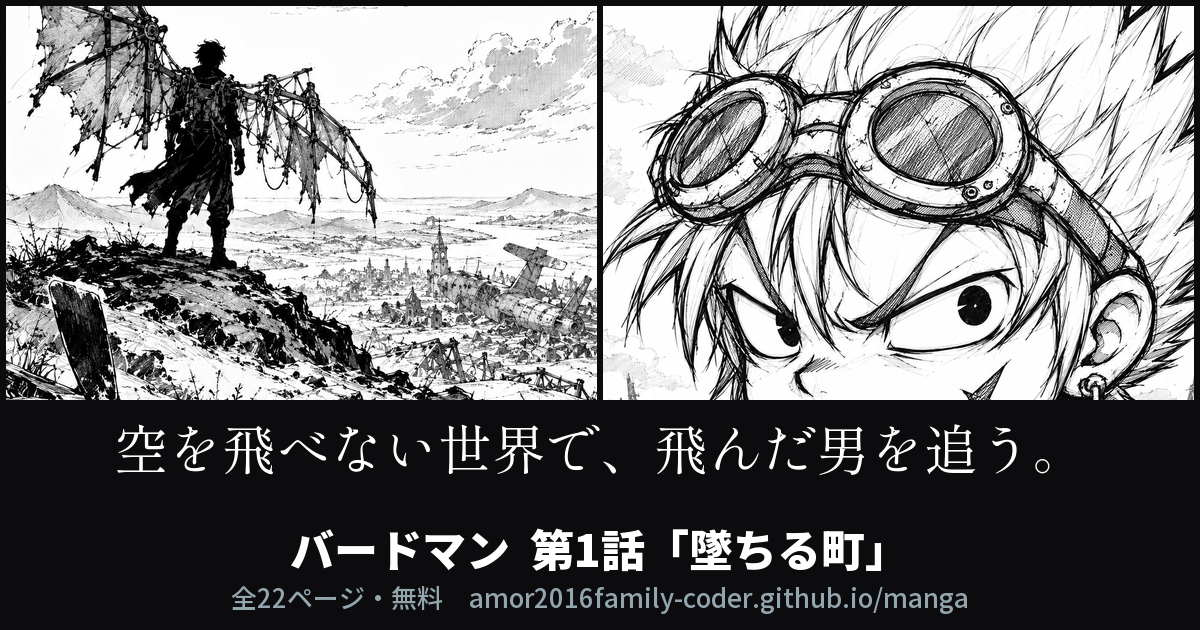
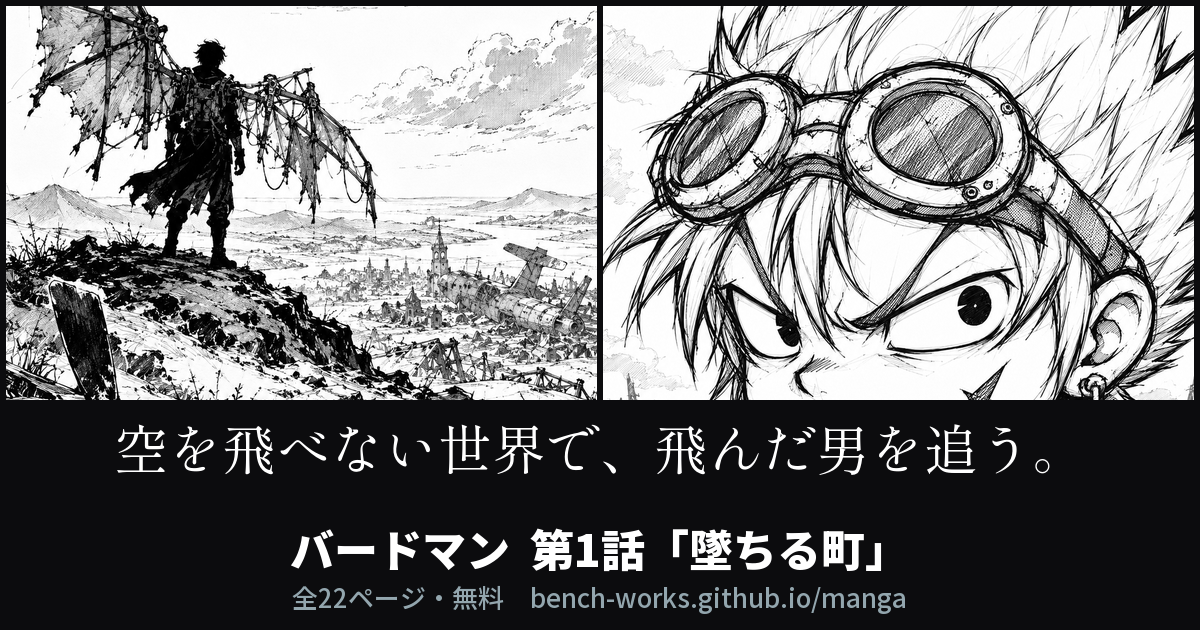
公開名とURLから会社名を外す
サイト名は「漫画棚」、公開先は bench-works.github.io/manga。
会社名が入ったURLを作品と並べて出せないため。

Changed region(s): [[0.185, 0.9349, 0.8017, 0.9651]]

diff --git a/docs/index.html b/docs/index.html
@@ -2,23 +2,23 @@
 <html lang="ja">
 <meta charset="utf-8">
 <meta name="viewport" content="width=device-width,initial-scale=1,viewport-fit=cover">
-<title>アモル漫画</title>
+<title>漫画棚</title>
 <meta name="description" content="白黒のペン画で描く、読み切りと連載。">
 <meta property="og:type" content="website">
-<meta property="og:title" content="アモル漫画">
+<meta property="og:title" content="漫画棚">
 <meta property="og:description" content="白黒のペン画で描く、読み切りと連載。">
-<meta property="og:image" content="https://amor2016family-coder.github.io/manga/img/birdman/card.png">
-<meta property="og:url" content="https://amor2016family-coder.github.io/manga/">
+<meta property="og:image" content="https://bench-works.github.io/manga/img/birdman/card.png">
+<meta property="og:url" content="https://bench-works.github.io/manga/">
 <meta name="twitter:card" content="summary_large_image">
 <link rel="icon" href="a/icon.png">
 <link rel="preconnect" href="https://fonts.googleapis.com">
 <link rel="preconnect" href="https://fonts.gstatic.com" crossorigin>
 <link rel="stylesheet" href="https://fonts.googleapis.com/css2?family=Shippori+Mincho+B1:wght@600;800&family=Zen+Kaku+Gothic+New:wght@400;500;700&display=swap">
 <link rel="stylesheet" href="a/site.css">
-<header class="bar"><div class="wrap"><a class="home" href="">アモル漫画</a><span class="spacer"></span></div><div class="rail"><span id="rail"></span></div></header>
+<header class="bar"><div class="wrap"><a class="home" href="">漫画棚</a><span class="spacer"></span></div><div class="rail"><span id="rail"></span></div></header>
 <main class="wrap">
 <section style="padding-block:34px 0">
-  <h1 style="font-size:clamp(26px,7vw,36px)">アモル漫画</h1>
+  <h1 style="font-size:clamp(26px,7vw,36px)">漫画棚</h1>
   <p class="logline" style="color:var(--dim);margin-top:12px">白黒のペン画で描く、読み切りと連載。</p>
 </section>
 <section class="shelf"><a class="card" href="w/birdman/">
@@ -26,4 +26,4 @@
   <div><p class="meta">連載中　1話公開中　全22ページ</p>
   <h2>バードマン</h2><p class="l">空を飛べない世界で、飛んだまま帰らなかった男を追って、少年が墜ちた機体を直す話。</p></div></a></section>
 </main>
-<footer class="wrap"><p>アモル漫画 — 白黒のペン画で描く、読み切りと連載。</p><p><a href="">作品の一覧へ</a></p></footer>
+<footer class="wrap"><p>漫画棚 — 白黒のペン画で描く、読み切りと連載。</p><p><a href="">作品の一覧へ</a></p></footer>

diff --git a/docs/w/birdman/01/index.html b/docs/w/birdman/01/index.html
@@ -7,15 +7,15 @@
 <meta property="og:type" content="article">
 <meta property="og:title" content="バードマン 第1話「墜ちる町」">
 <meta property="og:description" content="空を飛べない世界で、飛んだまま帰らなかった男を追って、少年が墜ちた機体を直す話。">
-<meta property="og:image" content="https://amor2016family-coder.github.io/manga/img/birdman/card.png">
-<meta property="og:url" content="https://amor2016family-coder.github.io/manga/w/birdman/01/">
+<meta property="og:image" content="https://bench-works.github.io/manga/img/birdman/card.png">
+<meta property="og:url" content="https://bench-works.github.io/manga/w/birdman/01/">
 <meta name="twitter:card" content="summary_large_image">
 <link rel="icon" href="../../../a/icon.png">
 <link rel="preconnect" href="https://fonts.googleapis.com">
 <link rel="preconnect" href="https://fonts.gstatic.com" crossorigin>
 <link rel="stylesheet" href="https://fonts.googleapis.com/css2?family=Shippori+Mincho+B1:wght@600;800&family=Zen+Kaku+Gothic+New:wght@400;500;700&display=swap">
 <link rel="stylesheet" href="../../../a/site.css">
-<header class="bar"><div class="wrap"><a class="home" href="../../../">アモル漫画</a><span class="spacer"></span><p class="counter">第1話 <b id="cur">—</b> / 22</p></div><div class="rail"><span id="rail"></span></div></header>
+<header class="bar"><div class="wrap"><a class="home" href="../../../">漫画棚</a><span class="spacer"></span><p class="counter">第1話 <b id="cur">—</b> / 22</p></div><div class="rail"><span id="rail"></span></div></header>
 <main class="wrap">
 <section class="hero" style="padding-block:24px 0">
   <p class="eyebrow">バードマン　第1話</p>
@@ -55,4 +55,4 @@
 </main>
 <div class="resume" id="resumeBar" hidden><button class="btn" id="resumeBtn" type="button"></button></div>
 <script src="../../../a/reader.js"></script>
-<footer class="wrap"><p>アモル漫画 — 白黒のペン画で描く、読み切りと連載。</p><p><a href="../../../">作品の一覧へ</a></p></footer>
+<footer class="wrap"><p>漫画棚 — 白黒のペン画で描く、読み切りと連載。</p><p><a href="../../../">作品の一覧へ</a></p></footer>

diff --git a/docs/w/birdman/index.html b/docs/w/birdman/index.html
@@ -7,15 +7,15 @@
 <meta property="og:type" content="website">
 <meta property="og:title" content="バードマン">
 <meta property="og:description" content="空を飛べない世界で、飛んだまま帰らなかった男を追って、少年が墜ちた機体を直す話。">
-<meta property="og:image" content="https://amor2016family-coder.github.io/manga/img/birdman/card.png">
-<meta property="og:url" content="https://amor2016family-coder.github.io/manga/w/birdman/">
+<meta property="og:image" content="https://bench-works.github.io/manga/img/birdman/card.png">
+<meta property="og:url" content="https://bench-works.github.io/manga/w/birdman/">
 <meta name="twitter:card" content="summary_large_image">
 <link rel="icon" href="../../a/icon.png">
 <link rel="preconnect" href="https://fonts.googleapis.com">
 <link rel="preconnect" href="https://fonts.gstatic.com" crossorigin>
 <link rel="stylesheet" href="https://fonts.googleapis.com/css2?family=Shippori+Mincho+B1:wght@600;800&family=Zen+Kaku+Gothic+New:wght@400;500;700&display=swap">
 <link rel="stylesheet" href="../../a/site.css">
-<header class="bar"><div class="wrap"><a class="home" href="../../">アモル漫画</a><span class="spacer"></span></div><div class="rail"><span id="rail"></span></div></header>
+<header class="bar"><div class="wrap"><a class="home" href="../../">漫画棚</a><span class="spacer"></span></div><div class="rail"><span id="rail"></span></div></header>
 <main class="wrap">
 <section class="hero">
   <figure><img src="../../img/birdman/cover.webp" width="1400" height="788"
@@ -34,4 +34,4 @@
   <ul class="eps"><li><a href="01/"><span class="no">01</span><span class="ttl">墜ちる町</span><span class="st">全22ページ</span></a></li><li><div class="soon"><span class="no">02</span><span class="ttl">帰ってきた男</span><span class="st">準備中</span></div></li></ul>
 </section>
 </main>
-<footer class="wrap"><p>アモル漫画 — 白黒のペン画で描く、読み切りと連載。</p><p><a href="../../">作品の一覧へ</a></p></footer>
+<footer class="wrap"><p>漫画棚 — 白黒のペン画で描く、読み切りと連載。</p><p><a href="../../">作品の一覧へ</a></p></footer>
